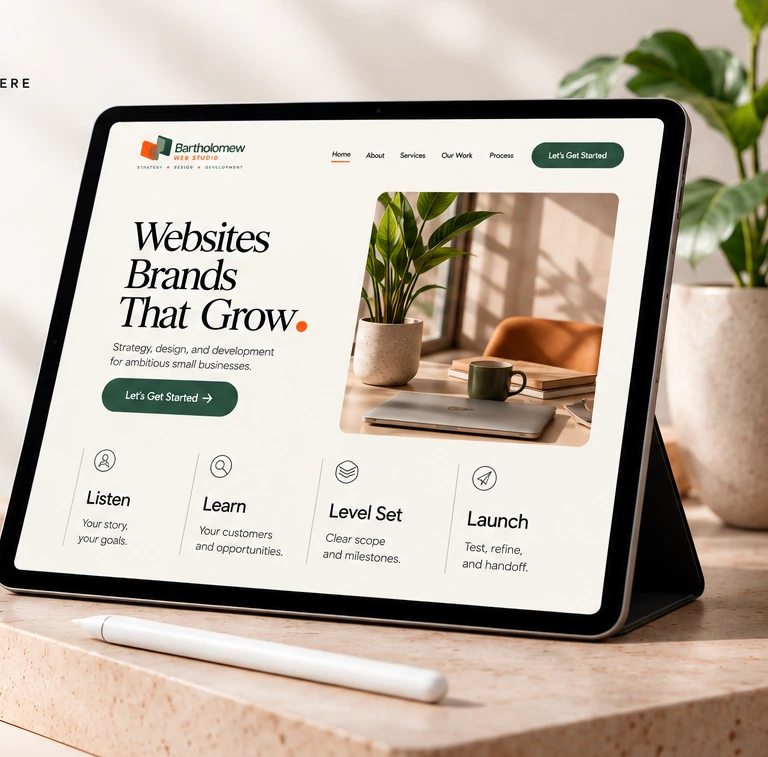
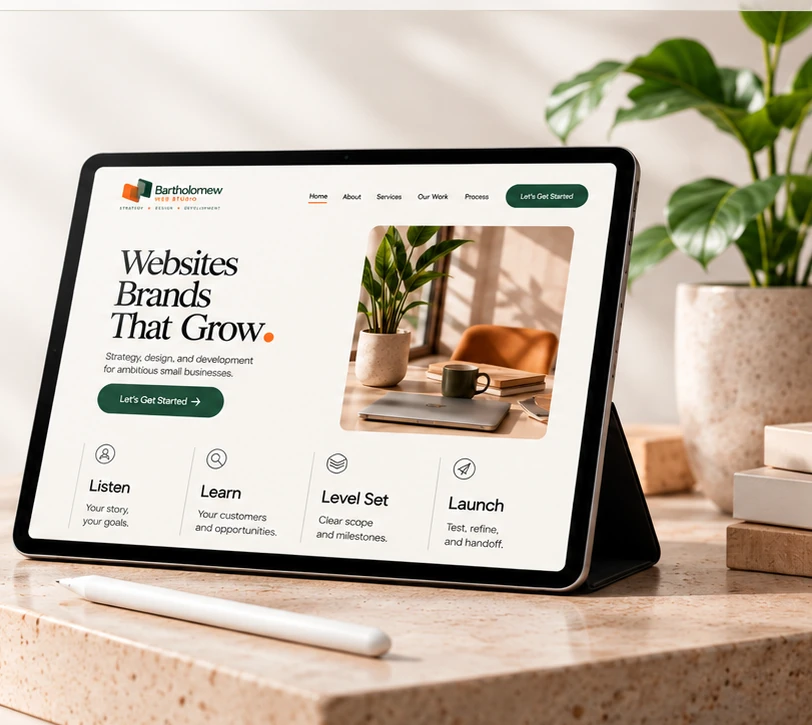
Add files via upload

diff --git a/index.html b/index.html
@@ -1,4 +1,5 @@
-<!doctype html><html lang="en"><head><meta charset="utf-8"><meta name="viewport" content="width=device-width,initial-scale=1"><title>Bartholomew Web Studio — Thoughtful Websites for Small Businesses</title><meta name="description" content="Bartholomew Web Studio offers website strategy, design, development, branding, business cards, promotional materials, and continued support for existing clients."><meta property="og:type" content="website"><meta property="og:site_name" content="Bartholomew Web Studio"><meta property="og:url" content="https://bartholomewwebstudio.com/"><meta property="og:title" content="Bartholomew Web Studio | Good Design. Real Impact."><meta property="og:description" content="Strategy, design, and development. Thoughtful websites for ambitious small businesses."><meta property="og:image" content="https://bartholomewwebstudio.com/social-preview-v2.png"><meta property="og:image:width" content="1200"><meta property="og:image:height" content="630"><meta property="og:image:alt" content="Bartholomew Web Studio — Good design. Real impact."><meta name="twitter:image" content="https://bartholomewwebstudio.com/social-preview-v2.png"><meta name="twitter:card" content="summary_large_image"><meta name="twitter:title" content="Bartholomew Web Studio | Good Design. Real Impact."><meta name="twitter:description" content="Strategy, design, and development. Thoughtful websites for ambitious small businesses."><style>
+<!DOCTYPE html>
+<html lang="en"><head><meta charset="utf-8"/><meta content="width=device-width,initial-scale=1" name="viewport"/><title>Bartholomew Web Studio — Thoughtful Websites for Small Businesses</title><meta content="Bartholomew Web Studio offers website strategy, design, development, branding, business cards, promotional materials, and continued support for existing clients." name="description"/><meta content="website" property="og:type"/><meta content="Bartholomew Web Studio" property="og:site_name"/><meta content="https://bartholomewwebstudio.com/" property="og:url"/><meta content="Bartholomew Web Studio | Good Design. Real Impact." property="og:title"/><meta content="Strategy, design, and development. Thoughtful websites for ambitious small businesses." property="og:description"/><meta content="https://bartholomewwebstudio.com/social-preview-v2.png" property="og:image"/><meta content="1200" property="og:image:width"/><meta content="630" property="og:image:height"/><meta content="Bartholomew Web Studio — Good design. Real impact." property="og:image:alt"/><meta content="https://bartholomewwebstudio.com/social-preview-v2.png" name="twitter:image"/><meta content="summary_large_image" name="twitter:card"/><meta content="Bartholomew Web Studio | Good Design. Real Impact." name="twitter:title"/><meta content="Strategy, design, and development. Thoughtful websites for ambitious small businesses." name="twitter:description"/><style>
 :root{--ink:#171b19;--cream:#ffffff;--green:#b7d6b4;--orange:#ff681f;--line:#d8d8d1}*{box-sizing:border-box}html{scroll-behavior:smooth}body{margin:0;background:var(--cream);color:var(--ink);font-family:Arial,Helvetica,sans-serif}a{color:inherit;text-decoration:none}button{font:inherit;cursor:pointer}header{height:88px;padding:0 6vw;display:flex;align-items:center;justify-content:space-between;border-bottom:1px solid #dddcd4}.logo{font-size:19px;font-weight:800;letter-spacing:-.9px;line-height:.9}.logo small{font-size:9px;letter-spacing:3px;font-weight:600}.nav{display:flex;align-items:center;gap:35px;font-size:14px}.pill{border:1px solid var(--ink);border-radius:99px;padding:15px 23px;background:transparent;transition:.25s}.pill:hover{background:var(--ink);color:white}.menu{display:none}.hero{min-height:710px;padding:115px 6vw 60px;position:relative;overflow:hidden}.eyebrow{font-size:12px;text-transform:uppercase;letter-spacing:3px;font-weight:700}.hero h1{font-size:clamp(65px,10.5vw,164px);line-height:.93;letter-spacing:-.09em;font-weight:500;margin:40px 0;max-width:1300px}.hero h1 em{font-style:normal;font-family:Georgia,serif;font-weight:400;letter-spacing:-.08em}.dot{display:inline-block;width:.22em;height:.22em;background:var(--orange);border-radius:50%;vertical-align:middle;margin-left:.08em}.hero-bottom{display:flex;justify-content:space-between;align-items:end;gap:30px}.hero-bottom p{font-size:20px;line-height:1.5;max-width:420px}.marquee{background:var(--green);overflow:hidden;padding:19px 0;font-size:14px;letter-spacing:3px;text-transform:uppercase;white-space:nowrap}.marquee div{width:max-content;animation:move 24s linear infinite}@keyframes move{to{transform:translateX(-50%)}}section{padding:120px 6vw}.section-label{font-size:12px;letter-spacing:3px;text-transform:uppercase;font-weight:700;margin-bottom:35px}.intro{display:grid;grid-template-columns:1fr 2fr;gap:8vw}.intro h2,.work h2,.services h2,.contact h2{font-size:clamp(44px,6vw,88px);font-weight:500;line-height:1.07;letter-spacing:-.065em;margin:0}.intro p{font-size:21px;line-height:1.65;max-width:700px}.work{background:#1c2420;color:#f7f5ef}.work-top{display:flex;justify-content:space-between;align-items:end;margin-bottom:70px}.work-top p{max-width:300px;line-height:1.6;color:#bfc8bf}.projects{display:grid;grid-template-columns:1fr 1fr;gap:30px}.project{min-width:0}.project-art{aspect-ratio:1.22;border-radius:6px;position:relative;overflow:hidden;display:flex;align-items:center;justify-content:center;transition:transform .35s}.project:hover .project-art{transform:scale(.985)}.art-one{background:#d6e7c9}.art-two{background:#e6b58e}.art-three{background:#a9c8ce}.art-four{background:#d7d1ef}.mock-window{width:78%;height:72%;background:#f9f8f4;border-radius:10px;box-shadow:18px 24px 45px #0002;transform:rotate(-8deg);overflow:hidden}.mock-bar{height:25px;background:#272c29;display:flex;align-items:center;padding-left:12px;gap:5px}.mock-bar i{width:5px;height:5px;background:#eaeaea;border-radius:50%}.mock-body{padding:28px}.mock-body strong{font-family:Georgia,serif;font-size:clamp(18px,3vw,42px);line-height:1}.mock-body p{font-size:12px;color:#555}.mock-shape{height:55px;width:70%;border-radius:80px;background:#c4d7b4;margin-top:20px}.art-two .mock-shape{background:#e8b58f}.art-three .mock-shape{background:#afd4db}.art-four .mock-shape{background:#c6b9e5}.project h3{font-size:25px;font-weight:500;margin:22px 0 7px}.project p{font-size:14px;color:#bfc8bf;margin:0 0 24px}.services h2{max-width:950px;margin-bottom:70px}.service{display:grid;grid-template-columns:80px 1fr 1fr;align-items:center;gap:20px;padding:36px 0;border-top:1px solid #c9c9c2}.service:last-child{border-bottom:1px solid #c9c9c2}.service h3{font-size:clamp(25px,3.5vw,47px);font-weight:500;letter-spacing:-.05em;margin:0}.service p{line-height:1.65;color:#555;max-width:390px}.process{background:var(--green)}.process h2{font-size:clamp(46px,7vw,100px);font-weight:500;letter-spacing:-.07em;margin:0 0 65px}.steps{display:grid;grid-template-columns:repeat(3,1fr);gap:25px}.step{border-top:1px solid #516f52;padding-top:20px}.step b{font-size:13px}.step h3{font-size:33px;font-weight:500;margin:55px 0 20px}.step p{line-height:1.6;max-width:310px}.contact{background:#ffffff;text-align:center;padding:140px 6vw}.contact h2{font-size:clamp(55px,9vw,130px);margin:30px auto 50px;max-width:1100px}.contact .pill{display:inline-block;background:var(--ink);color:white;padding:22px 40px}.contact .pill:hover{background:#42654a}footer{padding:40px 6vw;display:flex;justify-content:space-between;gap:25px;font-size:13px}footer a{text-decoration:underline}.reveal{opacity:0;transform:translateY(30px);transition:opacity .8s,transform .8s}.reveal.visible{opacity:1;transform:none}.note{font-size:12px;color:#6b6b65;margin-top:20px}@media(max-width:760px){header{height:76px}.nav a:not(.pill){display:none}.hero{min-height:620px;padding-top:95px}.hero h1{font-size:clamp(60px,13vw,100px)}.hero-bottom p{font-size:16px}section{padding:80px 6vw}.intro{display:block}.intro h2{margin-bottom:25px}.projects,.steps{grid-template-columns:1fr}.work-top{display:block}.service{grid-template-columns:40px 1fr}.service p{grid-column:2}.contact{padding:95px 6vw}footer{flex-direction:column}}
 @media(prefers-reduced-motion:reduce){html{scroll-behavior:auto}.marquee div{animation:none}.reveal{opacity:1;transform:none;transition:none}}
 .philosophy-tile{display:flex;flex-direction:column;align-items:flex-start;justify-content:space-between;padding:clamp(24px,3vw,45px);color:#17211d;isolation:isolate}.tile-number{font-size:12px;font-weight:700;letter-spacing:2px}.tile-word{font-size:clamp(52px,7vw,112px);letter-spacing:-.09em;line-height:.95;font-weight:600;align-self:flex-start}.tile-dot{color:var(--orange)}.tile-description{font-size:clamp(15px,1.65vw,21px);line-height:1.45;max-width:320px;margin:auto 0 16px;font-weight:400;letter-spacing:0}.tile-symbol{align-self:flex-end;font-size:45px;font-weight:300;line-height:1}.philosophy-grid .project h3{font-size:27px}.philosophy-grid .project p{font-size:15px;line-height:1.6;max-width:460px}.philosophy-tile:hover .tile-symbol{transform:translate(6px,-6px);transition:transform .3s}@media(max-width:760px){.tile-word{font-size:clamp(60px,15vw,110px)}}
@@ -45,4 +46,14 @@ header{height:112px;gap:24px}
 .hero-media{width:58%;mask-image:linear-gradient(to right,transparent 0%,#000 25%);-webkit-mask-image:linear-gradient(to right,transparent 0%,#000 25%)}
 .hero-media img{object-fit:cover;object-position:center center}
 @media(max-width:760px){.hero-media{width:calc(100% + 12vw);mask-image:none;-webkit-mask-image:none}.hero-media img{object-fit:cover}}
-</style></head><body><header><a href="#top" class="logo" aria-label="Bartholomew Web Studio home"><img src="bws-official-logo.png" alt="Bartholomew Web Studio — Strategy, Design, Development" width="378" height="155" decoding="async"></a><nav class="nav" aria-label="Main navigation"><a href="#work">Our philosophy</a><a href="#services">Services</a><a href="#approach">Approach</a><a href="#client-support">Client support</a><a class="pill" href="#contact">Let's talk</a></nav></header><main id="top"><div class="hero"><div class="hero-copy"><div class="eyebrow">Independent creative web studio · Working with businesses everywhere</div><h1>Good design.<br><em>Real</em> impact<span class="dot"></span></h1><div class="hero-bottom"><p>Thoughtful websites for ambitious small businesses. Built to look exceptional—and work even harder.</p></div></div><div class="hero-media"><img src="bws-tablet-hero.webp" alt="Modern tablet displaying a Bartholomew Web Studio design with dark green buttons" width="768" height="710" fetchpriority="high" decoding="async"></div></div><div class="marquee" aria-hidden="true"><div>STRATEGY ✳ DESIGN ✳ DEVELOPMENT ✳ STRATEGY ✳ DESIGN ✳ DEVELOPMENT ✳ STRATEGY ✳ DESIGN ✳ DEVELOPMENT ✳</div></div><section class="intro reveal"><div class="section-label">01 / Who we are</div><div><h2>Small business deserves big ideas.</h2><p>We're a boutique web studio bringing thoughtful strategy, memorable design, and organized delivery together. From a business name and logo to a finished website, we help brands show up online with confidence, clarity, and character.</p><a class="pill" href="#approach" style="display:inline-block;margin-top:20px">Our approach</a></div></section><section class="work" id="work"><div class="work-top reveal"><div><div class="section-label">02 / Our philosophy</div><h2>Made to<br>stand out.</h2></div><p>Great work begins with understanding. Four intentional steps take your business from first conversation to confident launch.</p></div><div class="projects philosophy-grid"><article class="project reveal"><div class="project-art art-one philosophy-tile"><div class="tile-word">Listen<span class="tile-dot">.</span></div><p class="tile-description">We hear your story, goals, and what matters most to your business.</p></div></article><article class="project reveal"><div class="project-art art-two philosophy-tile"><div class="tile-word">Learn<span class="tile-dot">.</span></div><p class="tile-description">We explore your customers, brand, and the opportunities your website should address.</p></div></article><article class="project reveal"><div class="project-art art-three philosophy-tile"><div class="tile-word">Level<br>Set<span class="tile-dot">.</span></div><p class="tile-description">We agree on priorities, scope, design direction, and what success looks like.</p></div></article><article class="project reveal"><div class="project-art art-four philosophy-tile"><div class="tile-word">Launch<span class="tile-dot">.</span></div><p class="tile-description">We build, test, refine, and bring your new website to life.</p></div></article></div></section><section class="services" id="services"><div class="section-label">03 / What we do</div><h2>Everything your brand needs to make a strong first impression.</h2><div class="service reveal"><span>01</span><h3>Brand naming &amp; logo design</h3><p>We explore business names and create a logo and visual direction that feel true to your business. We can point you to official resources for name registration and trademark questions.</p></div><div class="service reveal"><span>02</span><h3>Website strategy</h3><p>We clarify your audience, message, and business goals before the first design begins.</p></div><div class="service reveal"><span>03</span><h3>Web design &amp; build</h3><p>Modern, responsive websites built around your services and the people you want to reach.</p></div><div class="service reveal"><span>04</span><h3>Business cards &amp; promotional design</h3><p>Professional business cards, flyers, branded graphics, and print-ready promotional materials that help your business make an impression beyond the screen.</p></div><div class="service reveal"><span>05</span><h3>Website care &amp; continued assistance</h3><p>Ongoing website updates, technical guidance, creative support, and other business-related requests. Existing clients enjoy preferred discounted rates for eligible follow-on services.</p></div></section><section class="client-support" id="client-support" aria-labelledby="client-support-title"><div class="section-label">04 / For our clients</div><div class="support-layout"><div><h2 id="client-support-title">Here for what comes next.</h2><p class="support-lead">Our partnership doesn’t end at launch. The BWS Client Help Desk is a dedicated place for established clients to request continued assistance—from updates and technical support to design needs and new ideas.</p><p>Approved BWS clients receive preferred, discounted rates on eligible additional services. Requests are reviewed and scope and pricing are confirmed before work begins.</p></div><div class="support-panel"><div class="support-tag">EXISTING CLIENTS ONLY</div><h3>Client Help Desk</h3><p>Only clients whose accounts have been created and approved by Bartholomew Web Studio will be able to submit support tickets.</p><p class="support-status">Secure client ticket portal — coming soon.</p><p>New to BWS? <a href="#contact">Contact us about your project</a> instead.</p></div></div></section><section class="process" id="approach"><div class="section-label">05 / How we work</div><h2>A clear path.<br>From idea to online.</h2><div class="steps"><div class="step reveal"><b>01 / LEARN</b><h3>We understand.</h3><p>We take time to understand your business, your customers, and what you want your brand or website to accomplish.</p></div><div class="step reveal"><b>02 / LEVEL SET</b><h3>We align.</h3><p>We establish a clear scope, design direction, and project milestones so everyone knows what to expect.</p></div><div class="step reveal"><b>03 / LAUNCH</b><h3>We deliver.</h3><p>We review, test, and refine your work before launch, then provide a clear handoff so you know how to move forward.</p></div></div></section><section class="contact" id="contact"><div class="section-label">06 / Let's Get Started</div><h2>Let's make your business impossible to ignore<span class="dot"></span></h2><p class="note">Need a website, brand identity, business cards, or promotional materials? Tell us about your business and what you’re looking to create. <a href="mailto:bartholomewwebstudio@gmail.com?subject=Project%20Inquiry%20%E2%80%94%20Bartholomew%20Web%20Studio" class="contact-email">Start a conversation →</a></p><p class="contact-phone">Call us: <a href="tel:+14433029859">(443) 302-9859</a></p></section></main><footer><div>© <span id="year"></span> Bartholomew Web Studio</div><div>Built with intention. Designed for possibility.</div><a href="#top">Back to top</a></footer><script>document.getElementById('year').textContent=new Date().getFullYear();const els=document.querySelectorAll('.reveal');if('IntersectionObserver'in window){const ob=new IntersectionObserver(entries=>entries.forEach(e=>{if(e.isIntersecting){e.target.classList.add('visible');ob.unobserve(e.target)}}),{threshold:.1});els.forEach(el=>ob.observe(el))}else{els.forEach(el=>el.classList.add('visible'))}</script></body></html>
+
+/* Final hero: smaller tablet, clear separation, no moving text. */
+.hero{min-height:620px;display:flex;align-items:center;padding-top:70px;padding-bottom:70px}
+.hero-copy{width:57%;position:relative;z-index:2}
+.hero h1{font-size:clamp(62px,7.3vw,116px);margin:20px 0 35px}
+.hero-media{position:absolute;right:3vw;top:10%;bottom:10%;left:auto;width:42%;height:80%;overflow:hidden;mask-image:none;-webkit-mask-image:none;border-radius:4px}
+.hero-media img{width:100%;height:100%;object-fit:cover;object-position:53% center}
+@media(min-width:1500px){.hero-media{right:5vw;width:41%}}
+@media(max-width:1050px) and (min-width:761px){.hero-copy{width:58%}.hero h1{font-size:clamp(56px,7vw,82px)}.hero-media{right:2vw;width:40%}}
+@media(max-width:760px){.hero{display:block;min-height:0;padding-top:55px;padding-bottom:0}.hero-copy{width:100%}.hero h1{font-size:clamp(55px,12vw,90px)}.hero-media{position:relative;right:auto;top:auto;bottom:auto;left:auto;width:100%;height:auto;aspect-ratio:1.22;margin:25px 0 35px;border-radius:8px}.hero-media img{object-fit:cover;object-position:center}}
+</style><link href="favicon.ico" rel="icon" type="image/x-icon"/><link href="bws-favicon.png" rel="icon" type="image/png"/><link href="bws-favicon.png" rel="apple-touch-icon" type="image/png"/></head><body><header><a aria-label="Bartholomew Web Studio home" class="logo" href="#top"><img alt="Bartholomew Web Studio — Strategy, Design, Development" decoding="async" height="155" src="bws-official-logo.png" width="378"/></a><nav aria-label="Main navigation" class="nav"><a href="#work">Our philosophy</a><a href="#services">Services</a><a href="#approach">Approach</a><a href="#client-support">Client support</a><a class="pill" href="#contact">Let's talk</a></nav></header><main id="top"><div class="hero"><div class="hero-copy"><h1>Good design.<br/><em>Real</em> impact<span class="dot"></span></h1><div class="hero-bottom"><p>Thoughtful websites for ambitious small businesses. Built to look exceptional—and work even harder.</p></div></div><div class="hero-media"><img alt="Modern tablet displaying a sample Bartholomew Web Studio website with green buttons" decoding="async" fetchpriority="high" height="630" src="bws-tablet-hero.webp" width="714"/></div></div><section class="intro reveal"><div class="section-label">01 / Who we are</div><div><h2>Small business deserves big ideas.</h2><p>We're a boutique web studio bringing thoughtful strategy, memorable design, and organized delivery together. From a business name and logo to a finished website, we help brands show up online with confidence, clarity, and character.</p><a class="pill" href="#approach" style="display:inline-block;margin-top:20px">Our approach</a></div></section><section class="work" id="work"><div class="work-top reveal"><div><div class="section-label">02 / Our philosophy</div><h2>Made to<br/>stand out.</h2></div><p>Great work begins with understanding. Four intentional steps take your business from first conversation to confident launch.</p></div><div class="projects philosophy-grid"><article class="project reveal"><div class="project-art art-one philosophy-tile"><div class="tile-word">Listen<span class="tile-dot">.</span></div><p class="tile-description">We hear your story, goals, and what matters most to your business.</p></div></article><article class="project reveal"><div class="project-art art-two philosophy-tile"><div class="tile-word">Learn<span class="tile-dot">.</span></div><p class="tile-description">We explore your customers, brand, and the opportunities your website should address.</p></div></article><article class="project reveal"><div class="project-art art-three philosophy-tile"><div class="tile-word">Level<br/>Set<span class="tile-dot">.</span></div><p class="tile-description">We agree on priorities, scope, design direction, and what success looks like.</p></div></article><article class="project reveal"><div class="project-art art-four philosophy-tile"><div class="tile-word">Launch<span class="tile-dot">.</span></div><p class="tile-description">We build, test, refine, and bring your new website to life.</p></div></article></div></section><section class="services" id="services"><div class="section-label">03 / What we do</div><h2>Everything your brand needs to make a strong first impression.</h2><div class="service reveal"><span>01</span><h3>Brand naming &amp; logo design</h3><p>We explore business names and create a logo and visual direction that feel true to your business. We can point you to official resources for name registration and trademark questions.</p></div><div class="service reveal"><span>02</span><h3>Website strategy</h3><p>We clarify your audience, message, and business goals before the first design begins.</p></div><div class="service reveal"><span>03</span><h3>Web design &amp; build</h3><p>Modern, responsive websites built around your services and the people you want to reach.</p></div><div class="service reveal"><span>04</span><h3>Business cards &amp; promotional design</h3><p>Professional business cards, flyers, branded graphics, and print-ready promotional materials that help your business make an impression beyond the screen.</p></div><div class="service reveal"><span>05</span><h3>Website care &amp; continued assistance</h3><p>Ongoing website updates, technical guidance, creative support, and other business-related requests. Existing clients enjoy preferred discounted rates for eligible follow-on services.</p></div></section><section aria-labelledby="client-support-title" class="client-support" id="client-support"><div class="section-label">04 / For our clients</div><div class="support-layout"><div><h2 id="client-support-title">Here for what comes next.</h2><p class="support-lead">Our partnership doesn’t end at launch. The BWS Client Help Desk is a dedicated place for established clients to request continued assistance—from updates and technical support to design needs and new ideas.</p><p>Approved BWS clients receive preferred, discounted rates on eligible additional services. Requests are reviewed and scope and pricing are confirmed before work begins.</p></div><div class="support-panel"><div class="support-tag">EXISTING CLIENTS ONLY</div><h3>Client Help Desk</h3><p>Only clients whose accounts have been created and approved by Bartholomew Web Studio will be able to submit support tickets.</p><p class="support-status">Secure client ticket portal — coming soon.</p><p>New to BWS? <a href="#contact">Contact us about your project</a> instead.</p></div></div></section><section class="process" id="approach"><div class="section-label">05 / How we work</div><h2>A clear path.<br/>From idea to online.</h2><div class="steps"><div class="step reveal"><b>01 / LEARN</b><h3>We understand.</h3><p>We take time to understand your business, your customers, and what you want your brand or website to accomplish.</p></div><div class="step reveal"><b>02 / LEVEL SET</b><h3>We align.</h3><p>We establish a clear scope, design direction, and project milestones so everyone knows what to expect.</p></div><div class="step reveal"><b>03 / LAUNCH</b><h3>We deliver.</h3><p>We review, test, and refine your work before launch, then provide a clear handoff so you know how to move forward.</p></div></div></section><section class="contact" id="contact"><div class="section-label">06 / Let's Get Started</div><h2>Let's make your business impossible to ignore<span class="dot"></span></h2><p class="note">Need a website, brand identity, business cards, or promotional materials? Tell us about your business and what you’re looking to create. <a class="contact-email" href="mailto:bartholomewwebstudio@gmail.com?subject=Project%20Inquiry%20%E2%80%94%20Bartholomew%20Web%20Studio">Start a conversation →</a></p><p class="contact-phone">Call us: <a href="tel:+14433029859">(443) 302-9859</a></p></section></main><footer><div>© <span id="year"></span> Bartholomew Web Studio</div><div>Built with intention. Designed for possibility.</div><a href="#top">Back to top</a></footer><script>document.getElementById('year').textContent=new Date().getFullYear();const els=document.querySelectorAll('.reveal');if('IntersectionObserver'in window){const ob=new IntersectionObserver(entries=>entries.forEach(e=>{if(e.isIntersecting){e.target.classList.add('visible');ob.unobserve(e.target)}}),{threshold:.1});els.forEach(el=>ob.observe(el))}else{els.forEach(el=>el.classList.add('visible'))}</script></body></html>
